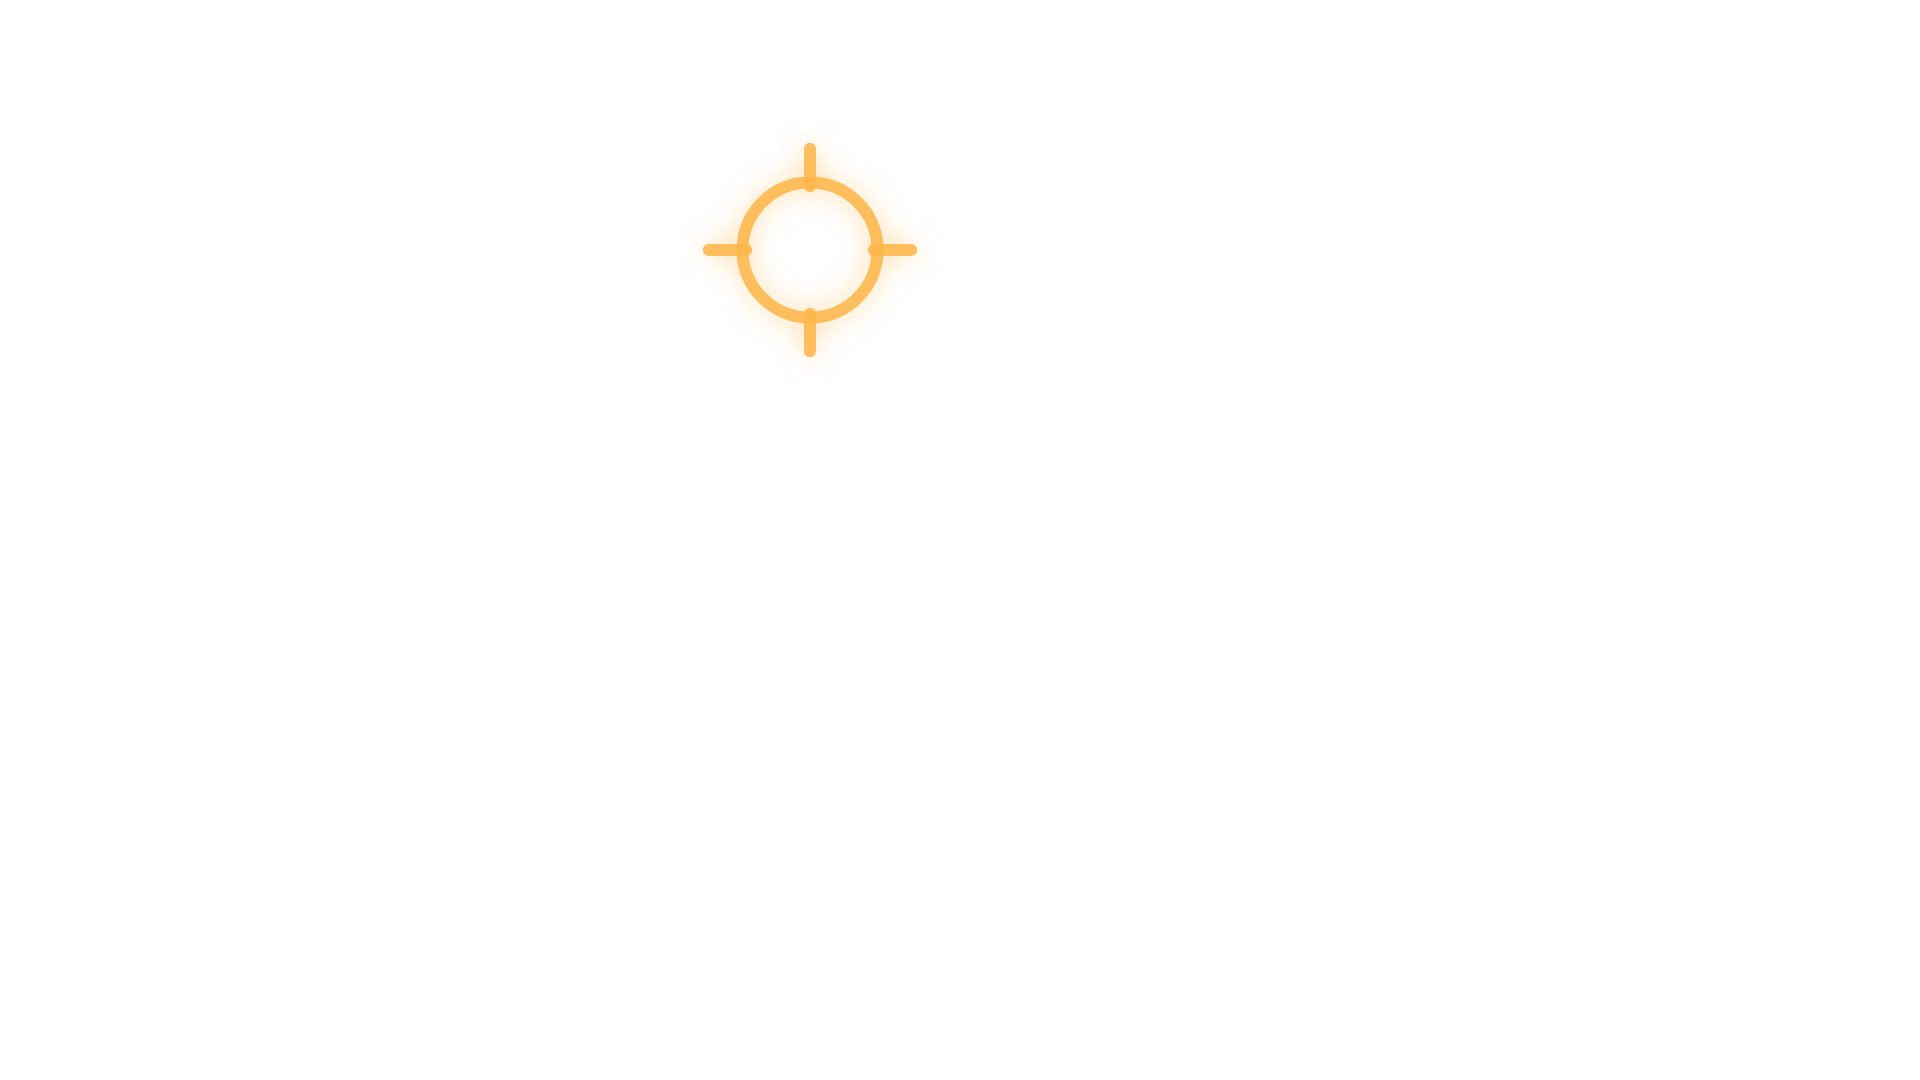
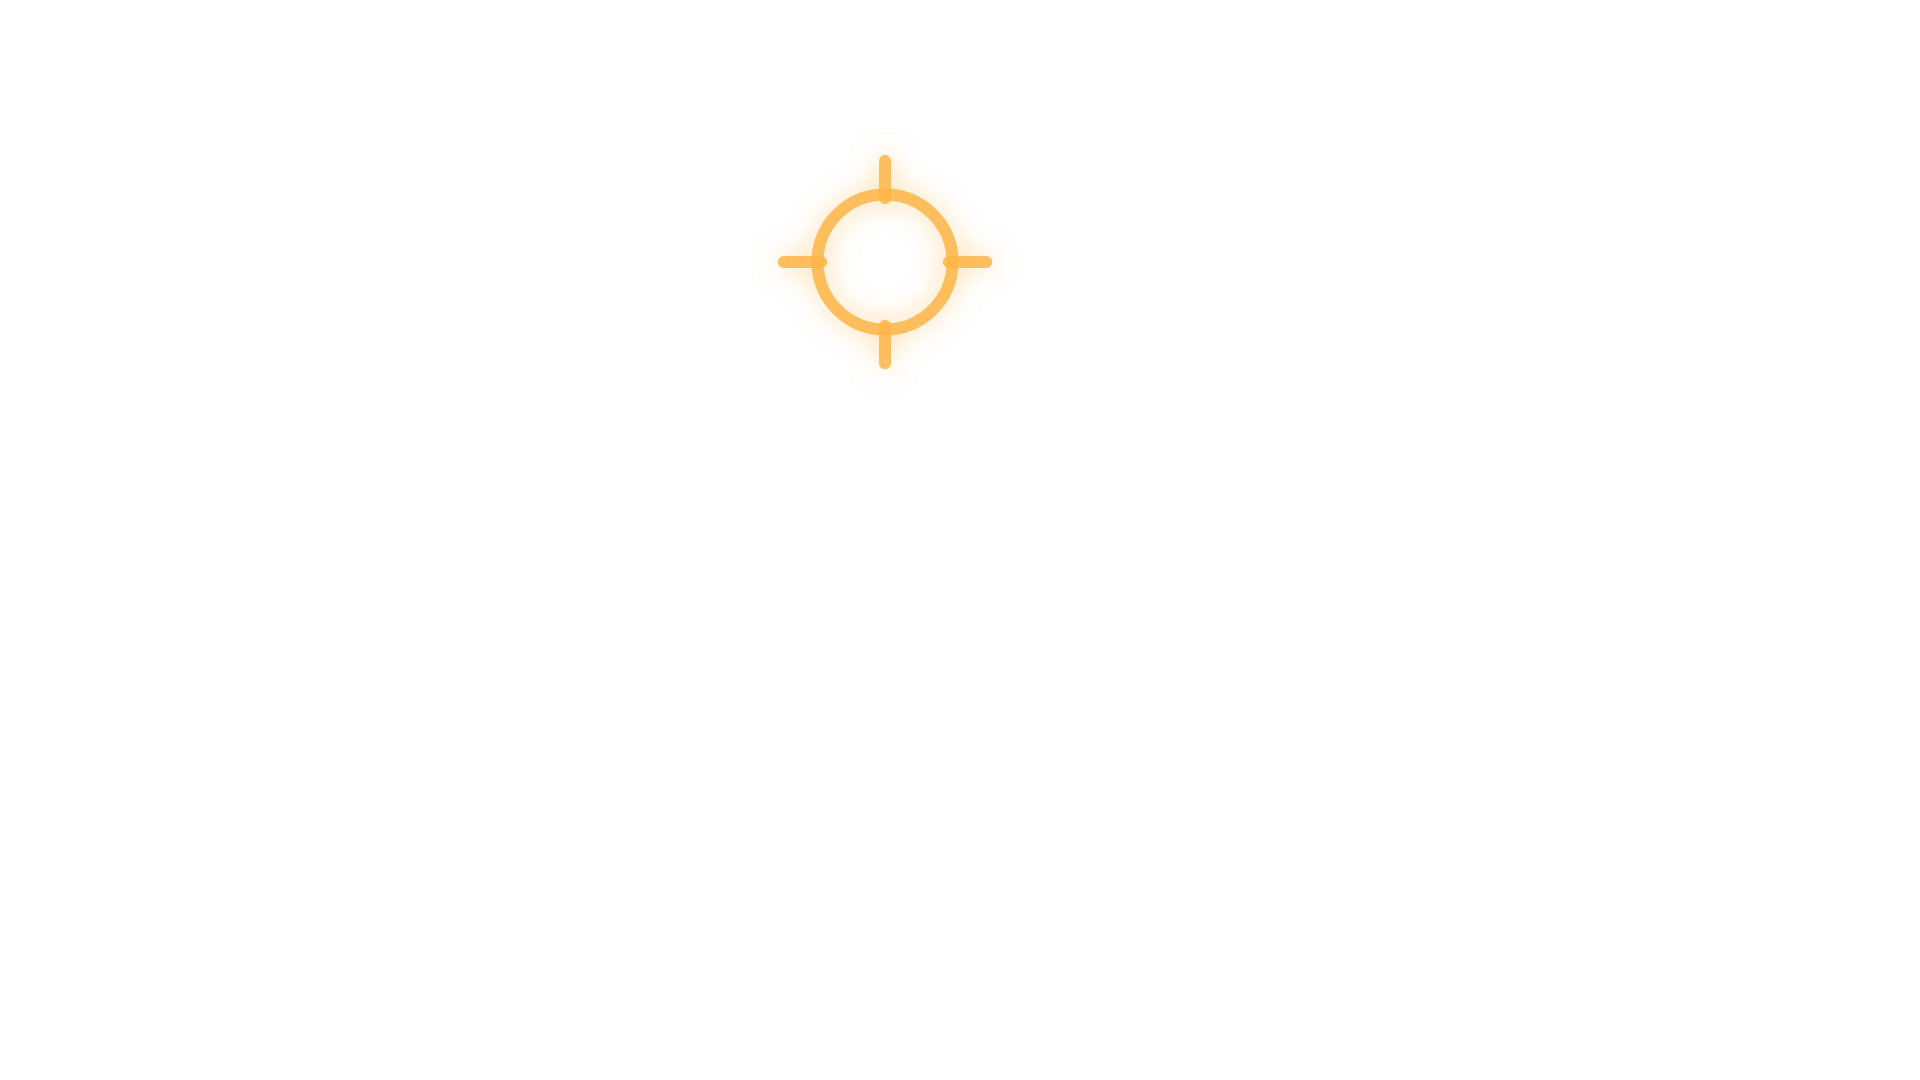
Trailer: shot-8 stills, full risk-gate dialog in frame, left-column captions, reticle on the eye
Claude-Session: https://claude.ai/code/session_017xU29rumcgkrYhmPPFcfdL

Changed region(s): [[0.3438, 0.1222, 0.5312, 0.3361]]

diff --git a/marketing/tools/trailer_edit.py b/marketing/tools/trailer_edit.py
@@ -24,6 +24,8 @@ def ai(n):
 
 
 GATE = f"{APP}/trailer-gate.mp4"
+# The audit panel is static before the dialog dims the page, so shot 8 uses a real frame at t=0.3 s.
+GATE_STILL = f"{APP}/trailer-gate-t0.3.png"
 gate_blur_dialog = [[1790, 286, 116, 48], [2040, 922, 220, 48]]
 gate_blur_toast = [[3300, 128, 180, 44], [3200, 168, 700, 64], [3560, 600, 220, 90]]
 
@@ -35,11 +37,11 @@ segments = [
     ai(5),                                                                                     # 9.0  bundler
     ai(6),                                                                                     # 11.4 insider
     ai(7),                                                                                     # 13.2 dev
-    {"src": GATE, "start": 0.05, "end": 2.25, "crop": [2700, 900, 1280, 720]},                 # 15.6 receipts: audit
-    {"src": GATE, "start": 2.25, "end": 3.05, "crop": [2700, 1480, 1280, 720]},                # 17.8 receipts: holder chips
+    {"src": GATE_STILL, "still": True, "dur": 2.2, "crop": [2880, 990, 1120, 630], "zoom": [1.0, 1.04]},                 # 15.6 receipts: audit
+    {"src": GATE_STILL, "still": True, "dur": 0.8, "crop": [2700, 1480, 1280, 720], "zoom": [1.0, 1.02]},                # 17.8 receipts: holder chips
     {"src": f"{OV}/s9-card.png", "still": True, "dur": 1.2},                                   # 18.6 card
     {"src": GATE, "start": 1.1, "end": 1.6, "crop": [2600, 100, 1240, 698], "blur": [[3560, 548, 220, 80]]},                   # 19.8 quote preview
-    {"src": GATE, "start": 3.75, "end": 6.05, "crop": [900, 200, 1600, 900], "blur": gate_blur_dialog},  # 20.3 dialog, tick, click
+    {"src": GATE, "start": 3.75, "end": 6.05, "crop": [840, 260, 1920, 1080], "blur": gate_blur_dialog},  # 20.3 dialog, tick, click
     {"src": GATE, "start": 6.35, "end": 7.75, "crop": [2600, 100, 1240, 698], "blur": gate_blur_toast},   # 22.6 fill toast
     ai(11),                                                                                    # 24.0 the rug
     {"src": f"{APP}/{rug_clip}.mp4", "start": 0.2, "end": 3.2, "crop": [0, 330, 2400, 1350], "zoom": [1.0, 1.05]},  # 25.8 rug in the sim
@@ -72,7 +74,7 @@ overlays += [
     o("s5-card", 9.15, 11.3), o("s5-sub", 9.4, 11.3),
     o("s6-card", 11.55, 13.1), o("s6-sub", 11.8, 13.1),
     o("s7-card", 13.35, 15.5), o("s7-sub", 13.6, 15.5),
-    o("simbug", 15.6, 18.6, 0.01), o("s8-cap", 15.8, 18.5),
+    o("simbug-l", 15.6, 18.6, 0.01), o("s8-cap", 15.8, 18.5),
     o("simbug", 19.8, 24.0, 0.01), o("s10-card", 20.0, 23.9), o("s10-sub", 20.3, 23.9),
     o("s11-cap", 24.2, 25.7),
     o("simbug", 25.8, 28.8, 0.01), o("s12-red", 26.2, 27.0, 0.05), o("s12-cap", 27.1, 28.7),

diff --git a/marketing/tools/trailer_ovl.py b/marketing/tools/trailer_ovl.py
@@ -37,6 +37,11 @@ def letterbox():
                 f'<div style="position:absolute;left:0;right:0;bottom:0;height:{BAR}px;background:#050608"></div>')
 
 
+def simbug_left():
+    return page('<div class="mono" style="position:absolute;left:48px;top:44px;background:rgba(10,12,16,.8);border:1.5px solid #FFB547;color:#FFB547;'
+                'font-weight:600;font-size:26px;letter-spacing:.08em;padding:10px 18px;border-radius:999px">SIM · PAPER TRADING</div>')
+
+
 def simbug():
     return page('<div class="mono" style="position:absolute;right:48px;top:44px;background:rgba(10,12,16,.8);border:1.5px solid #FFB547;color:#FFB547;'
                 'font-weight:600;font-size:26px;letter-spacing:.08em;padding:10px 18px;border-radius:999px">SIM · PAPER TRADING</div>')
@@ -131,11 +136,12 @@ def blur_box(x, y, w, h):
 OVERLAYS = {
     "letterbox": letterbox(),
     "simbug": simbug(),
+    "simbug-l": simbug_left(),
     "aitag": ai_tag(),
     "s1-hook": big_caption("everything out here\nwants your *bag.*", size=84),
     "s1-label": label("FIELD GUIDE TO THE TRENCHES · EP.01"),
-    "s1-reticle": reticle(810, 250, 240),
-    "s1-chip": chip_at("whale", 950, 214),
+    "s1-reticle": reticle(885, 262, 240),
+    "s1-chip": chip_at("whale", 1025, 226),
     "s2-cap": big_caption("so we built a *scope.*", size=88),
     "s3-a": lower_third("filmed on location."),
     "s3-b": lower_third("the location is a *simulator.*"),
@@ -150,7 +156,7 @@ OVERLAYS = {
     "s8-cap": lower_third("receipts. on every token."),
     "s9-card": card("so naturally, you…"),
     "s10-card": species_left(["THE MOST", "ENDANGERED", "SPECIES"], "homo fomo", "you"),
-    "s10-sub": lower_third("reads the warning. *buys anyway.*"),
+    "s10-sub": left_caption("reads the warning.\n*buys anyway.*", 560, size=54),
     "s11-cap": big_caption("nature is not kind to late buyers.", size=72),
     "s12-red": red_word("DEV SELL."),
     "s12-cap": lower_third("rug: real-feeling. money: *fake.*"),
